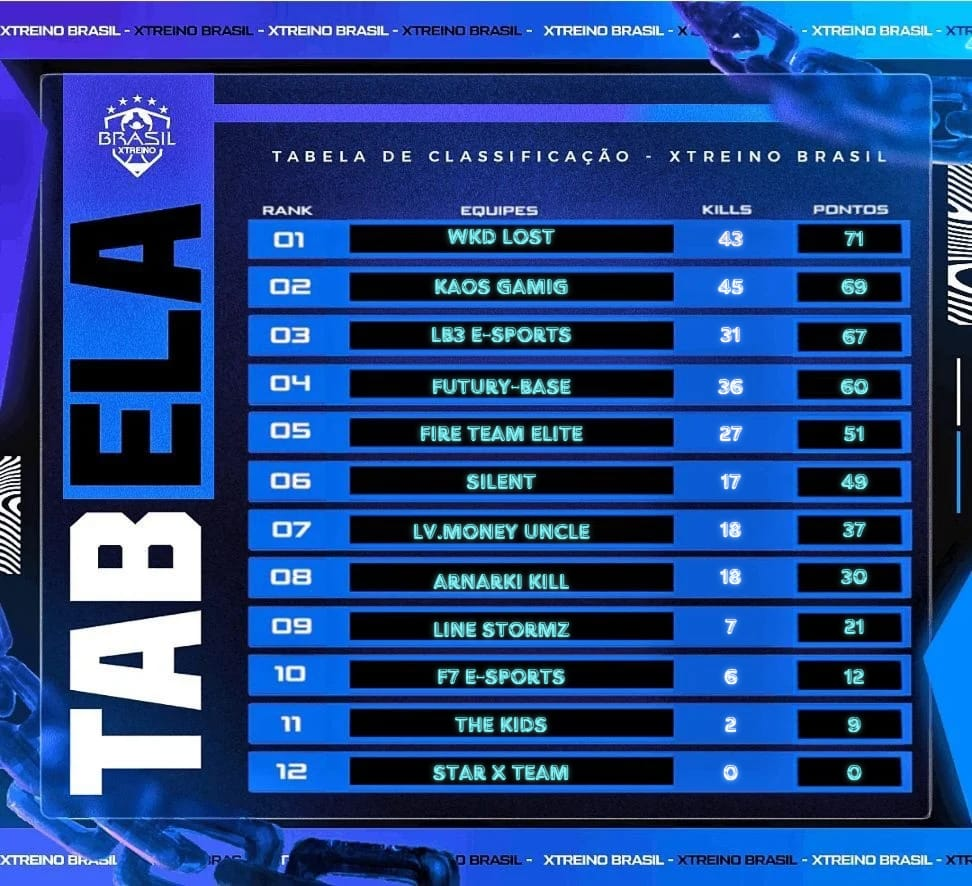
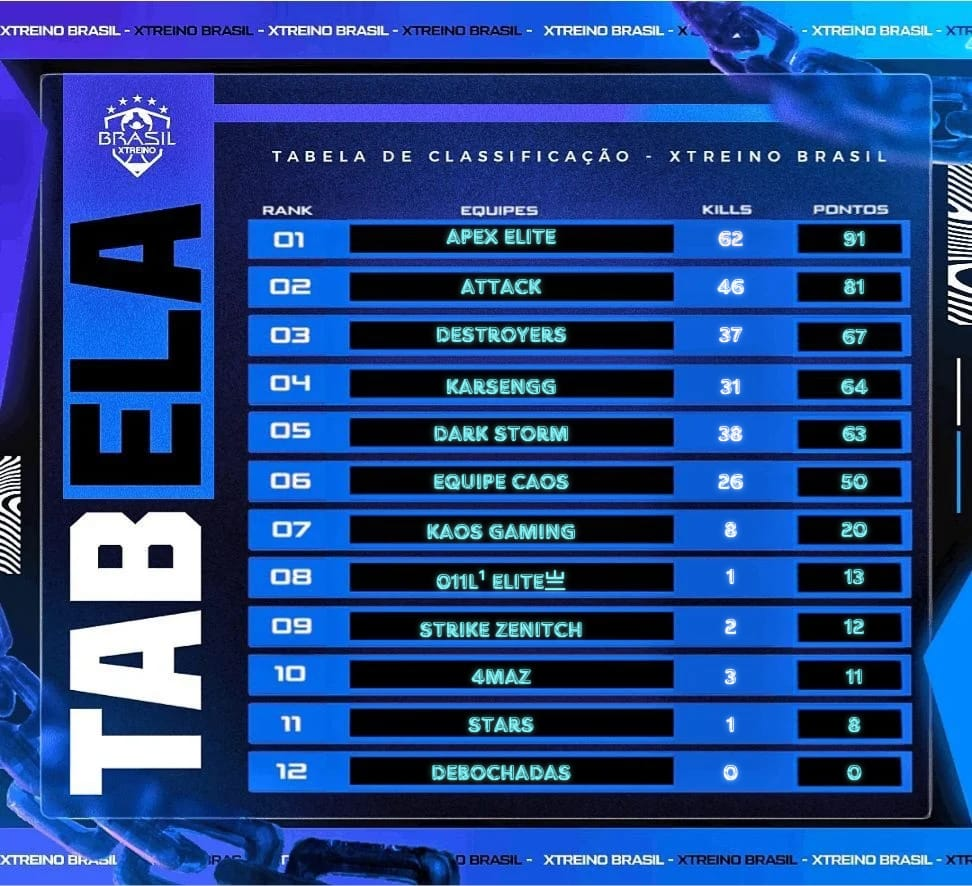
Ranking atualizado

diff --git a/script.js b/script.js
@@ -19,26 +19,26 @@ buttons.forEach(button => {
 // 📊 RANKING (COM SETA MANUAL)
 // =======================
 const rankingData = [
-  { posicao: 1, variacao: "➖", time: "EAGLES EMU", pontos: 630, kills: 413 },
-  { posicao: 2, variacao: "🔼", time: "MAGUINETA", pontos: 471, kills: 293 },
-  { posicao: 3, variacao: "🔽", time: "XR7 FOXX", pontos: 457, kills: 295 },
-  { posicao: 4, variacao: "🔼", time: "LEGENDS", pontos: 410, kills: 266 },
-  { posicao: 5, variacao: "🔽", time: "DRAGON AURA", pontos: 407, kills: 272 },
-  { posicao: 6, variacao: "🔼", time: "ALLGAMES", pontos: 354, kills: 197 },
-  { posicao: 7, variacao: "🔼", time: "HKS ACADEMY", pontos: 325, kills: 176 },
-  { posicao: 8, variacao: "🔽", time: "WKD EVOS", pontos: 317, kills: 183 },
-  { posicao: 9, variacao: "🔽", time: "LB3 E-SPORTS", pontos: 312, kills: 194 },
-  { posicao: 10, variacao: "🔽", time: "CTRL C+ CTRL V", pontos: 312, kills: 170 },
-  { posicao: 11, variacao: "🔽", time: "HKS EMU", pontos: 281, kills: 173 },
-  { posicao: 12, variacao: "🔼", time: "ANONYMOUS ELITE", pontos: 264, kills: 174 },
-  { posicao: 13, variacao: "➖", time: "STREET SPORTS", pontos: 262, kills: 175 },
-  { posicao: 14, variacao: "➖", time: "SILENT", pontos: 257, kills: 125 },
-  { posicao: 15, variacao: "🔼", time: "K ILL OR DIE", pontos: 248, kills: 153 },
-  { posicao: 16, variacao: "➖", time: "RUPTURA", pontos: 240, kills: 136 },
-  { posicao: 17, variacao: "🔼", time: "EAGLES", pontos: 232, kills: 142 },
-  { posicao: 18, variacao: "🔽", time: "GOD GG", pontos: 210, kills: 107 },
-  { posicao: 19, variacao: "🔽", time: "BRIOCUDOS", pontos: 178, kills: 109 },
-  { posicao: 20, variacao: "🔼", time: "SOUL", pontos: 173, kills: 102 }
+  { posicao: 1, variacao: "➖", time: "LEGENDS", pontos: 207, kills: 138 },
+  { posicao: 2, variacao: "➖", time: "MAGUINETA", pontos: 188, kills: 106 },
+  { posicao: 3, variacao: "➖", time: "KARSEN GG", pontos: 186, kills: 105 },
+  { posicao: 4, variacao: "➖", time: "RK", pontos: 161, kills: 109 },
+  { posicao: 5, variacao: "➖", time: "ABU E-SPORTS", pontos: 160, kills: 109 },
+  { posicao: 6, variacao: "➖", time: "ANONYMOUS", pontos: 127, kills: 79 },
+  { posicao: 7, variacao: "➖", time: "RELIQUIAS ON", pontos: 119, kills: 63 },
+  { posicao: 8, variacao: "➖", time: "EAGLES", pontos: 112, kills: 74 },
+  { posicao: 9, variacao: "➖", time: "7VEN GAMING", pontos: 104, kills: 61 },
+  { posicao: 10, variacao: "➖", time: "DARK STORM", pontos: 102, kills: 59 },
+  { posicao: 11, variacao: "➖", time: "DESTROYERS", pontos: 93, kills: 54 },
+  { posicao: 12, variacao: "➖", time: "TEAM CAW", pontos: 91, kills: 63 },
+  { posicao: 13, variacao: "➖", time: "APEX ELITE", pontos: 91, kills: 62 },
+  { posicao: 14, variacao: "➖", time: "XR7 FOXX", pontos: 84, kills: 52 },
+  { posicao: 15, variacao: "➖", time: "HKS EMU", pontos: 81, kills: 43 },
+  { posicao: 16, variacao: "➖", time: "HYX SPORTS", pontos: 78, kills: 51 },
+  { posicao: 17, variacao: "➖", time: "WKD EVOS", pontos: 75, kills: 38 },
+  { posicao: 18, variacao: "➖", time: "BLACK WHITE", pontos: 66, kills: 40 },
+  { posicao: 19, variacao: "➖", time: "DRAGON AURA", pontos: 62, kills: 40 },
+  { posicao: 20, variacao: "➖", time: "LB3 E-SPORTS", pontos: 55, kills: 31 }
 ];
 
 
@@ -80,40 +80,30 @@ const resultadosPorDia = [
   {
     dia: "Segunda-feira",
     imagens: [
-      { src: "./assets/images/SEG/16H.jpeg", horario: "Horário: 16:00", data: "Data: 23/03/2026", tamanho: "liga" },
-      { src: "./assets/images/SEG/18H.jpeg", horario: "Horário: 18:00", data: "Data: 23/03/2026", tamanho: "liga" },
-      { src: "./assets/images/SEG/19H.jpeg", horario: "Horário: 19:00", data: "Data: 23/03/2026", tamanho: "normal" },
-      { src: "./assets/images/SEG/20H.jpeg", horario: "Horário: 20:00", data: "Data: 23/03/2026", tamanho: "liga" },
-      { src: "./assets/images/SEG/22H.jpeg", horario: "Horário: 22:00", data: "Data: 23/03/2026", tamanho: "liga" },
-      { src: "./assets/images/SEG/22H-n.jpeg", horario: "Horário: 22:00", data: "Data: 23/03/2026", tamanho: "normal" }
+      
     ]
   },
   {
     dia: "Terça-feira",
     imagens: [
-      { src: "./assets/images/TER/00H.jpeg", horario: "00:00", data: "24/03/2026", tamanho: "liga" },
-      { src: "./assets/images/TER/16H.png", horario: "16:00", data: "24/03/2026", tamanho: "liga" },
-      { src: "./assets/images/TER/18H.jpeg", horario: "18:00", data: "24/03/2026", tamanho: "liga" },
-      { src: "./assets/images/TER/19H.jpeg", horario: "19:00", data: "24/03/2026", tamanho: "normal" },
-      { src: "./assets/images/TER/20H.jpeg", horario: "20:00", data: "24/03/2026", tamanho: "liga" },
-      { src: "./assets/images/TER/21H.png", horario: "21:00", data: "24/03/2026", tamanho: "liga" },
-      { src: "./assets/images/TER/22H.jpeg", horario: "22:00", data: "24/03/2026", tamanho: "liga" }
+      
     ]
   },
   {
     dia: "Quarta-feira",
     imagens: [
-      { src: "./assets/images/QUA/00H.png", horario: "00:00", data: "25/03/2026", tamanho: "liga" },
-      { src: "./assets/images/QUA/16H.jpeg", horario: "16:00", data: "25/03/2026", tamanho: "liga" },
-      { src: "./assets/images/QUA/18H.jpeg", horario: "18:00", data: "25/03/2026", tamanho: "liga" },
-      { src: "./assets/images/QUA/19H.jpeg", horario: "19:00", data: "25/03/2026", tamanho: "normal" },
-      { src: "./assets/images/QUA/20H.jpeg", horario: "20:00", data: "25/03/2026", tamanho: "liga" },
-      { src: "./assets/images/QUA/22H.jpeg", horario: "22:00", data: "25/03/2026", tamanho: "liga" },
-      { src: "./assets/images/SEG/22H-n.jpeg", horario: "Horário: 22:00", data: "Data: 23/03/2026", tamanho: "normal" }
+      { src: "./assets/images/QUA/00H.jpeg", horario: "00:00", data: "01/04/2026", tamanho: "liga" },
+      { src: "./assets/images/QUA/16H.jpeg", horario: "16:00", data: "01/04/2026", tamanho: "liga" },
+      { src: "./assets/images/QUA/18H.jpeg", horario: "18:00", data: "01/04/2026", tamanho: "liga" },
+      { src: "./assets/images/QUA/18H-2.jpeg", horario: "18:00", data: "01/04/2026", tamanho: "normal" },
+      { src: "./assets/images/QUA/19H.jpeg", horario: "19:00", data: "01/04/2026", tamanho: "normal" },
+      { src: "./assets/images/QUA/20H.jpeg", horario: "20:00", data: "01/04/2026", tamanho: "liga" },
+      { src: "./assets/images/QUA/22H.jpeg", horario: "22:00", data: "01/04/2026", tamanho: "liga" },
+      { src: "./assets/images/QUA/23H.jpeg", horario: "23:00", data: "01/04/2026", tamanho: "normal" }
     ]
   },
   { dia: "Quinta-feira", imagens: [
-    { src: "./assets/images/QUI/00H.jpeg", horario: "00:00", data: "26/03/2026", tamanho: "liga" }
+    
   ] },
   { dia: "Sexta-feira", imagens: [] }
 ];

diff --git a/index.html b/index.html
@@ -5,6 +5,15 @@
   <meta name="viewport" content="width=device-width, initial-scale=1.0" />
   <title>Ranking e Resultados</title>
   <link rel="stylesheet" href="style.css" />
+  <!-- Google tag (gtag.js) -->
+<script async src="https://www.googletagmanager.com/gtag/js?id=G-KLH7GZ1VP4"></script>
+<script>
+  window.dataLayer = window.dataLayer || [];
+  function gtag(){dataLayer.push(arguments);}
+  gtag('js', new Date());
+
+  gtag('config', 'G-KLH7GZ1VP4');
+</script>
 </head>
 <body>
   <header>
@@ -25,8 +34,9 @@
       <!-- RANKING -->
       <section id="ranking" class="section active">
         <div class="card">
-          <h2>RANKING SEMANAL - TOP 20º</h2>
-          <p>Atualizado até dia 23/03/2026</p>
+          <h2>RANKING MENSAL - TOP 20º</h2>
+          <p>RESULTADOS - 01/04/2026</p>
+          <span> Classificam para a final os 15º dos ranking geral</span><br>
           <div class="table-wrap">
             <table>
               <thead>
